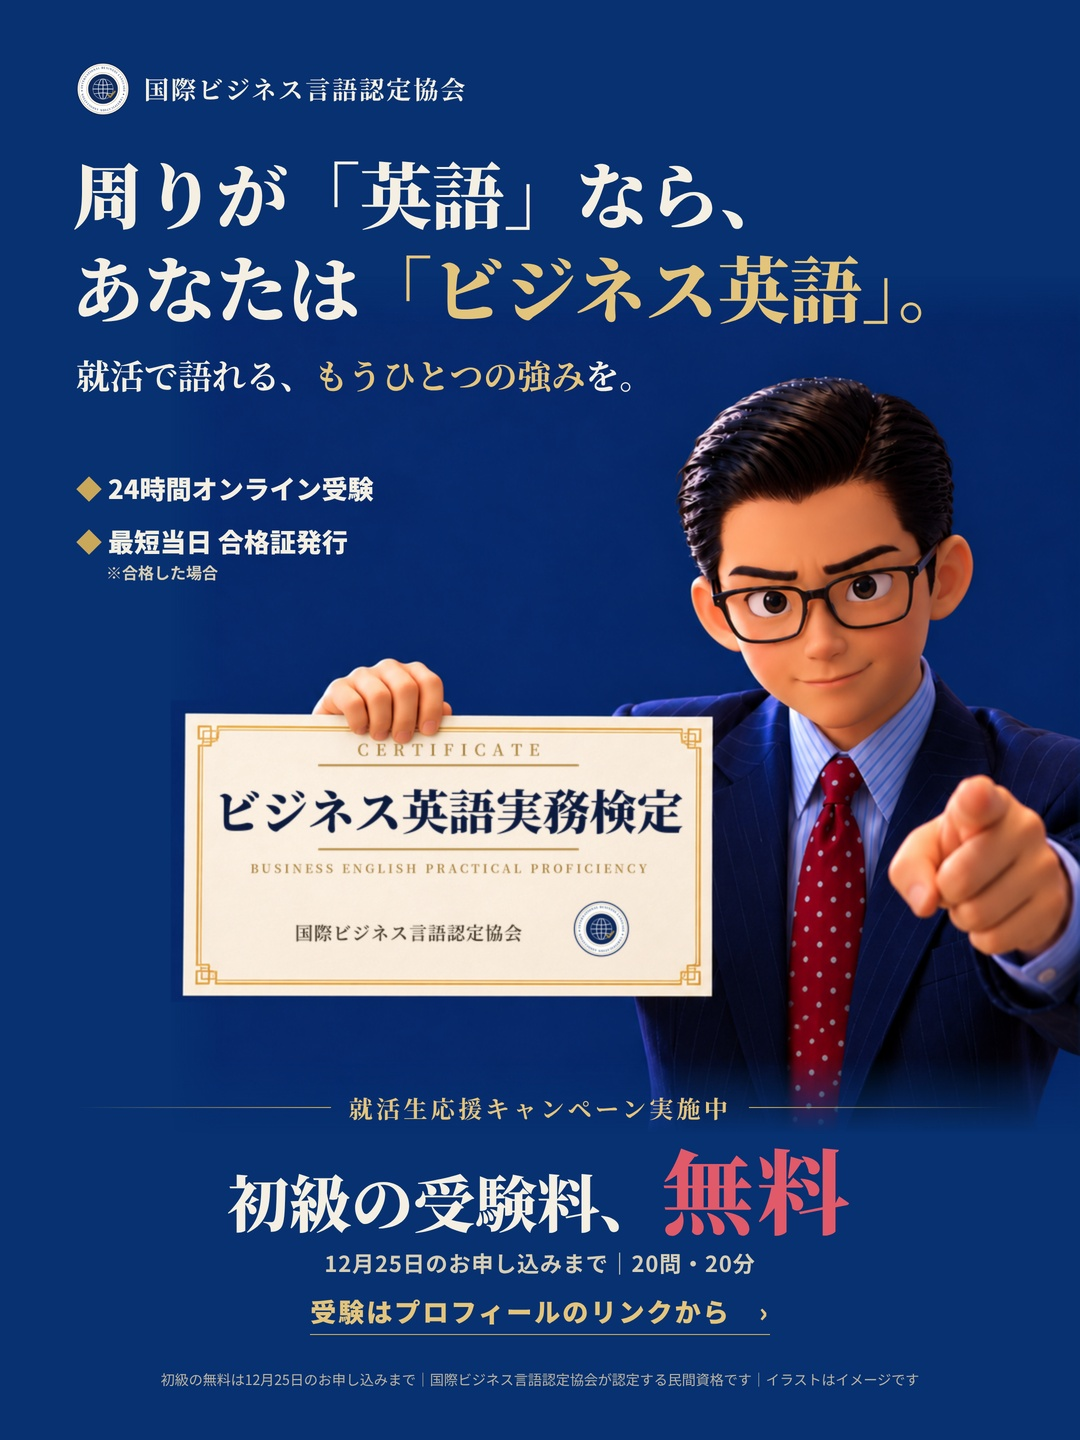
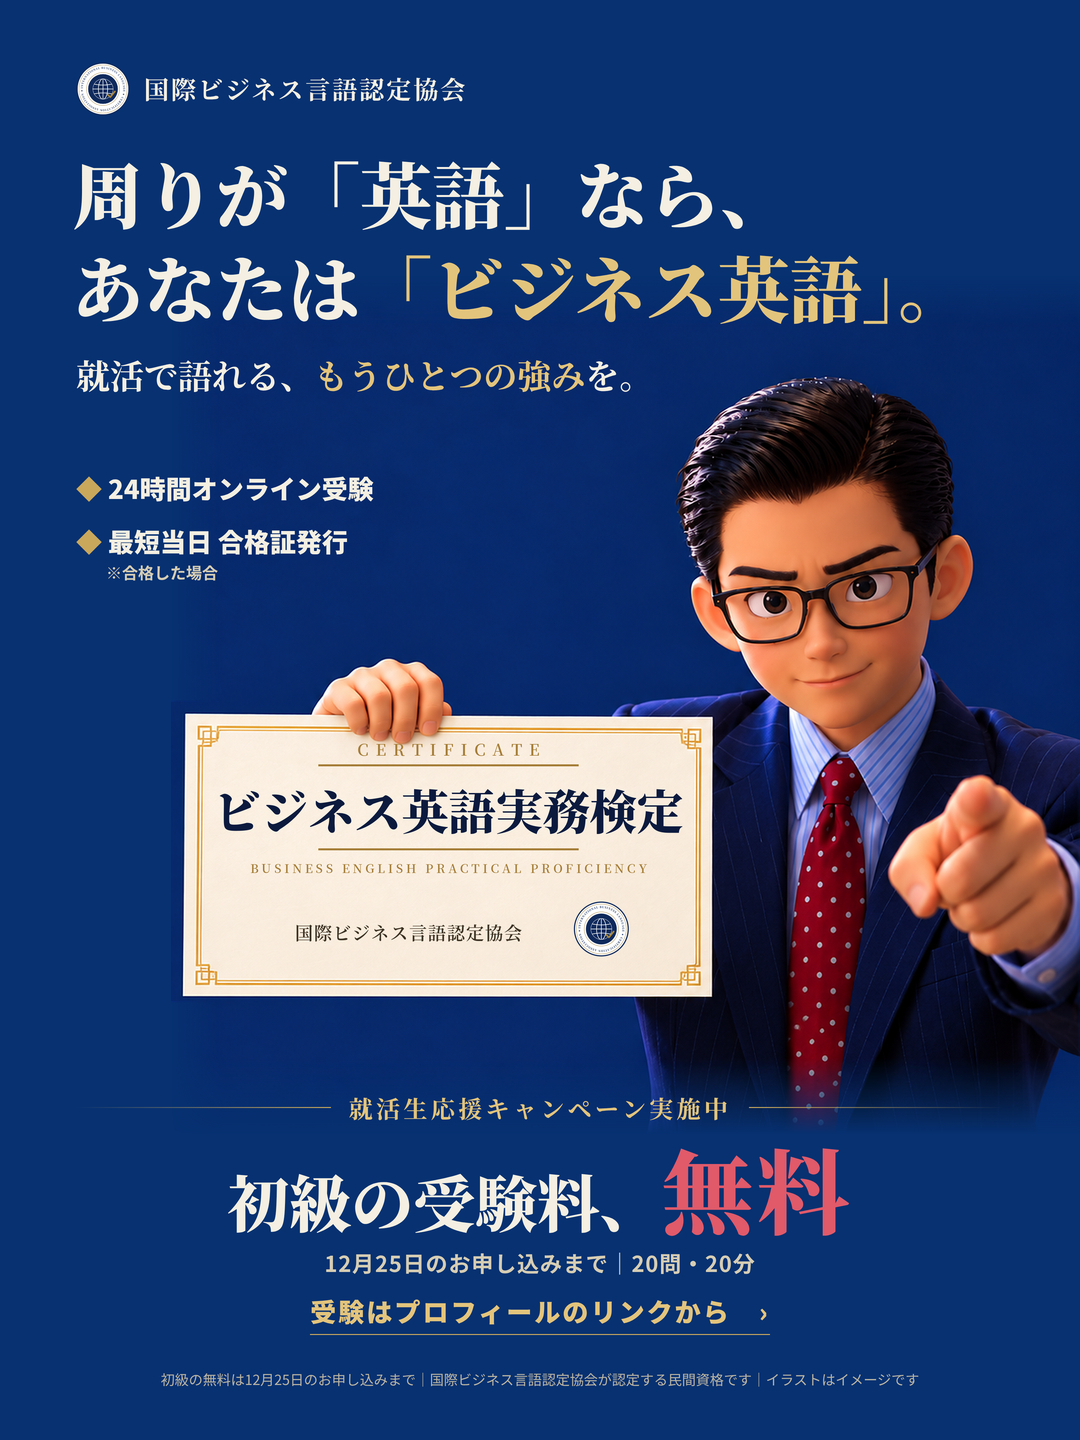
インスタ固定投稿 決定版：最高画質で書き出し
Claude-Session: https://claude.ai/code/session_014p5jL2LKN9C3tYKst8GaL5

diff --git a/content/posters/ig_v26_hi.html b/content/posters/ig_v26_hi.html
@@ -1,0 +1,45 @@
+<!doctype html><html><head><meta charset="utf-8"><style>
+*{margin:0;padding:0;box-sizing:border-box}
+html,body{width:1080px;height:1440px;overflow:hidden}
+body{font-family:"Noto Sans CJK JP",sans-serif;color:#f4efe2;-webkit-font-smoothing:antialiased;background:#073171;position:relative}
+.frame{position:absolute;left:26px;top:26px;right:26px;bottom:26px;border:1.5px solid rgba(201,168,92,.5);z-index:5}
+.brand{position:absolute;left:76px;top:62px;display:flex;align-items:center;gap:14px;z-index:4}
+.brand img{width:54px;height:54px}
+.brand .n{font-family:"Noto Serif CJK JP",serif;font-weight:700;font-size:25px;letter-spacing:.08em}
+.head{position:absolute;z-index:4;left:72px;right:60px;top:146px;font-family:"Noto Serif CJK JP",serif;font-weight:900;font-size:72px;line-height:1.3}
+.head em{font-style:normal;color:#e3c47c}
+.sub{position:absolute;z-index:4;left:76px;top:350px;font-family:"Noto Serif CJK JP",serif;font-weight:700;font-size:34px}
+.sub em{font-style:normal;color:#e3c47c}
+.ken{position:absolute;left:0;top:0;width:1080px;z-index:1}
+.fadeb{position:absolute;left:0;right:0;top:1060px;height:80px;background:linear-gradient(180deg,rgba(14,40,92,0),#0e285c 75%);z-index:2}
+.chips{position:absolute;z-index:4;left:76px;top:470px;display:flex;flex-direction:column;gap:16px;font-weight:900;font-size:26px;color:#f4efe2}.chips small{display:block;margin-left:30px!important;font-size:16px!important;color:#d6cdb4}
+.chips span:before{content:"◆ ";color:#c9a85c}.chips small{font-size:14px;font-weight:700;margin-left:4px}
+.cta{position:absolute;z-index:4;left:76px;right:76px;top:1100px;background:linear-gradient(90deg,#c9a85c,#e8cd8a);color:#0a1838;text-align:center;padding:14px 12px 16px}
+.cta .t{display:inline-block;background:#b4233a;color:#fff;font-weight:900;font-size:20px;letter-spacing:.1em;padding:3px 14px}
+.cta .nm{margin-top:4px;font-family:"Noto Serif CJK JP",serif;font-weight:900;font-size:52px;line-height:1.15;letter-spacing:.04em}
+.cta .nm:after{content:"";display:block;width:460px;height:1.5px;background:rgba(10,24,56,.45);margin:6px auto 2px}
+.cta .a{margin-top:10px;font-family:"Noto Serif CJK JP",serif;font-weight:900;font-size:54px;line-height:1.2}
+.cta .a b{font-size:76px;color:#b4233a}
+.cta .b{margin-top:12px;font-weight:900;font-size:24px}
+.cta .b span{display:inline-block;background:#0a1838;color:#e3c47c;padding:4px 14px;margin-left:10px;font-size:20px;letter-spacing:.06em}
+.note{position:absolute;z-index:4;left:0;right:0;top:1370px;text-align:center;font-size:14px;color:#b9b3a2}
+
+.camp{position:absolute;z-index:4;left:76px;right:76px;top:1090px;text-align:center}
+.camp .t{display:flex;align-items:center;gap:18px;justify-content:center}
+.camp .t:before,.camp .t:after{content:"";flex:1;height:1.5px;background:linear-gradient(90deg,rgba(201,168,92,0),#c9a85c)}
+.camp .t:after{background:linear-gradient(90deg,#c9a85c,rgba(201,168,92,0))}
+.camp .t span{font-family:"Noto Serif CJK JP",serif;font-weight:700;font-size:24px;letter-spacing:.14em;color:#e3c47c}
+.camp .a{margin-top:8px;font-family:"Noto Serif CJK JP",serif;font-weight:900;font-size:62px;line-height:1.2;color:#f4efe2}
+.camp .a b{font-size:92px;color:#e05a6a;letter-spacing:.04em}
+.camp .b{margin-top:4px;font-size:22px;font-weight:700;color:#d6cdb4;letter-spacing:.04em}
+.camp .c{margin-top:14px;display:inline-block;font-weight:900;font-size:26px;color:#e3c47c;letter-spacing:.08em;border-bottom:1.5px solid #c9a85c;padding-bottom:4px}
+</style></head><body>
+
+<img class="ken" src="ken_layer26_hi.png">
+<div class="brand"><img src="logo.png"><div class="n">国際ビジネス言語認定協会</div></div>
+<div class="head">周りが「英語」なら、<br>あなたは<em>「ビジネス英語」。</em></div>
+<div class="sub">就活で語れる、<em>もうひとつの強み</em>を。</div>
+<div class="chips"><span>24時間オンライン受験</span><span>最短当日 合格証発行<small>※合格した場合</small></span></div>
+<div class="camp"><div class="t"><span>就活生応援キャンペーン実施中</span></div><div class="a">初級の受験料、<b>無料</b></div><div class="b">12月25日のお申し込みまで｜20問・20分</div><div class="c">受験はプロフィールのリンクから　›</div></div>
+<div class="note">初級の無料は12月25日のお申し込みまで｜国際ビジネス言語認定協会が認定する民間資格です｜イラストはイメージです</div>
+</body></html>

diff --git a/log/posted.md b/log/posted.md
@@ -107,3 +107,4 @@
 - 2026-10-29 作成｜Instagram 固定投稿用 v24 2案（金の箱をやめた版）｜A：IG_固定投稿_v24A_箱なし.jpg（金の線と文字だけでキャンペーン）／B：IG_固定投稿_v24B_赤い丸.jpg（赤い丸のハンコ風「初級の受験料 無料」）｜未投稿
 - 2026-10-29 作成｜Instagram 固定投稿用 v25（決定版に差し替え）｜v24A をもとに、合格証を右上へ移動・外側の金の枠線を削除｜未投稿（オーナーが自分で投稿）
 - 2026-10-29 作成｜Instagram 固定投稿用 v26（決定版に差し替え）｜オーナーが作り直した絵（合格証が右上寄り）で作成、外枠なし｜未投稿（オーナーが自分で投稿）
+- 2026-10-29 書き出し｜インスタ固定投稿 決定版（v26）を最高画質で｜assets/images/IG_固定投稿_決定版_最高画質.png／.jpg（3240×4320、文字は高解像度で描き直し）。投稿用は IG_固定投稿_決定版.jpg（1080×1440・最高品質）
